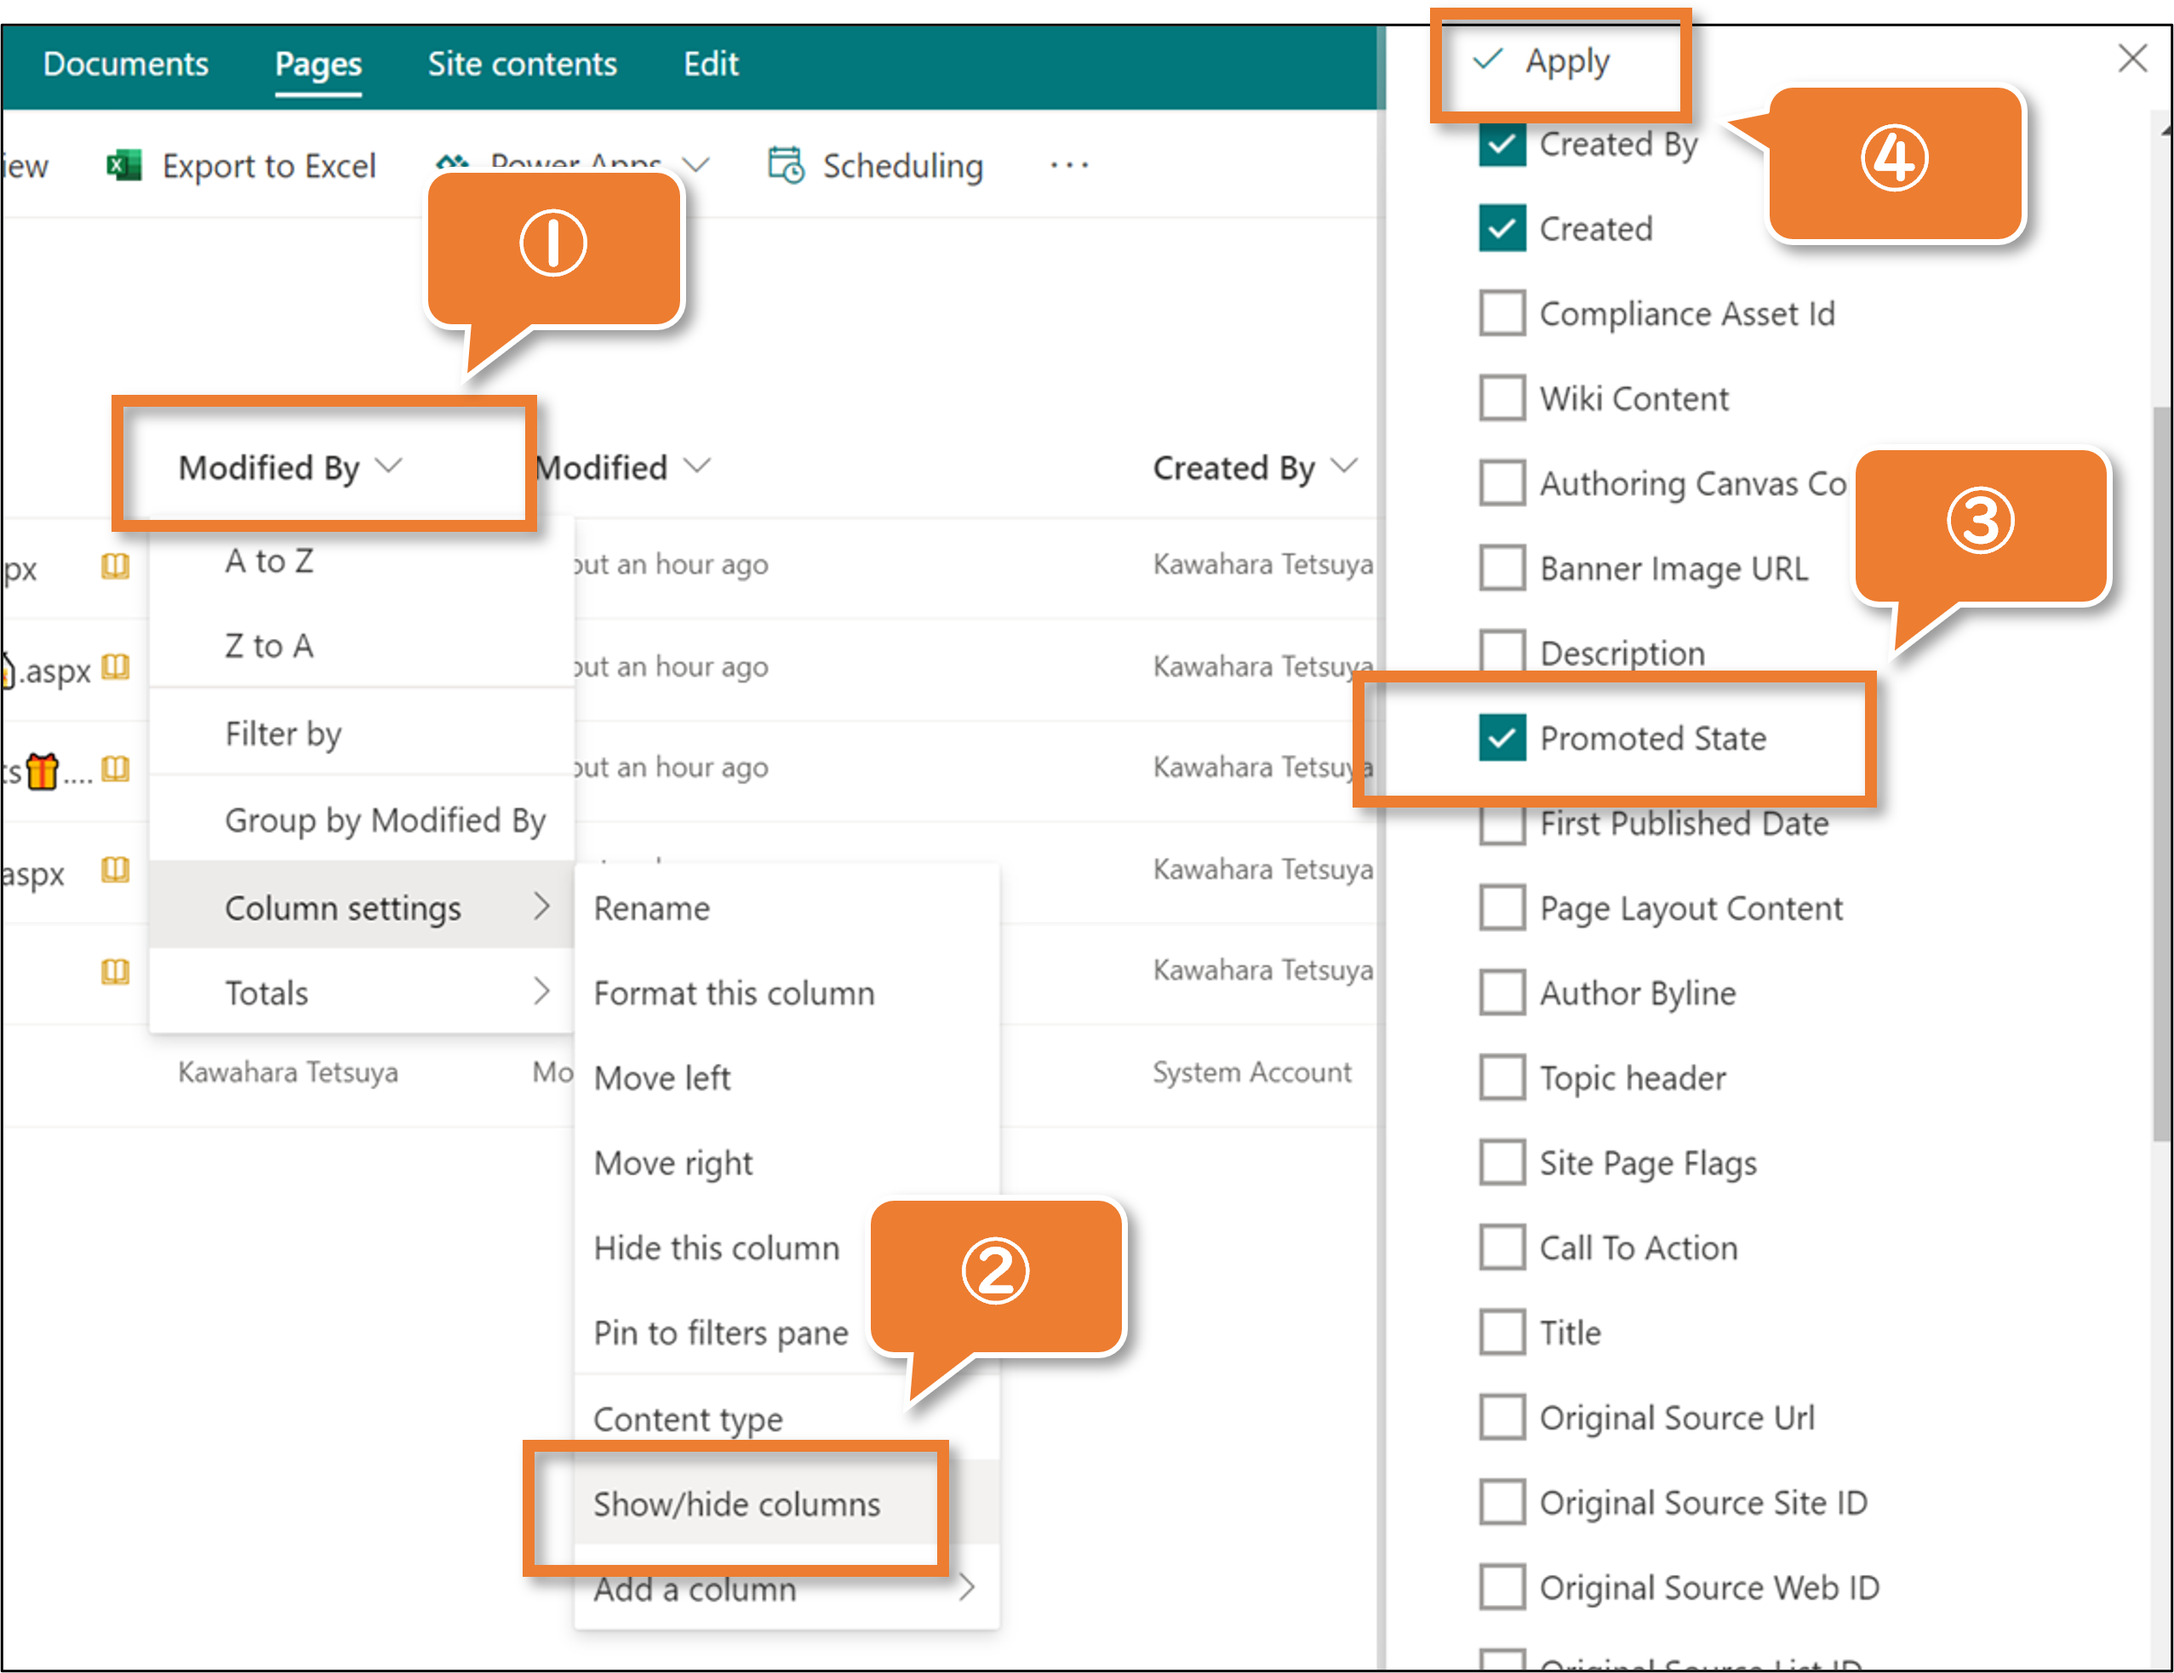
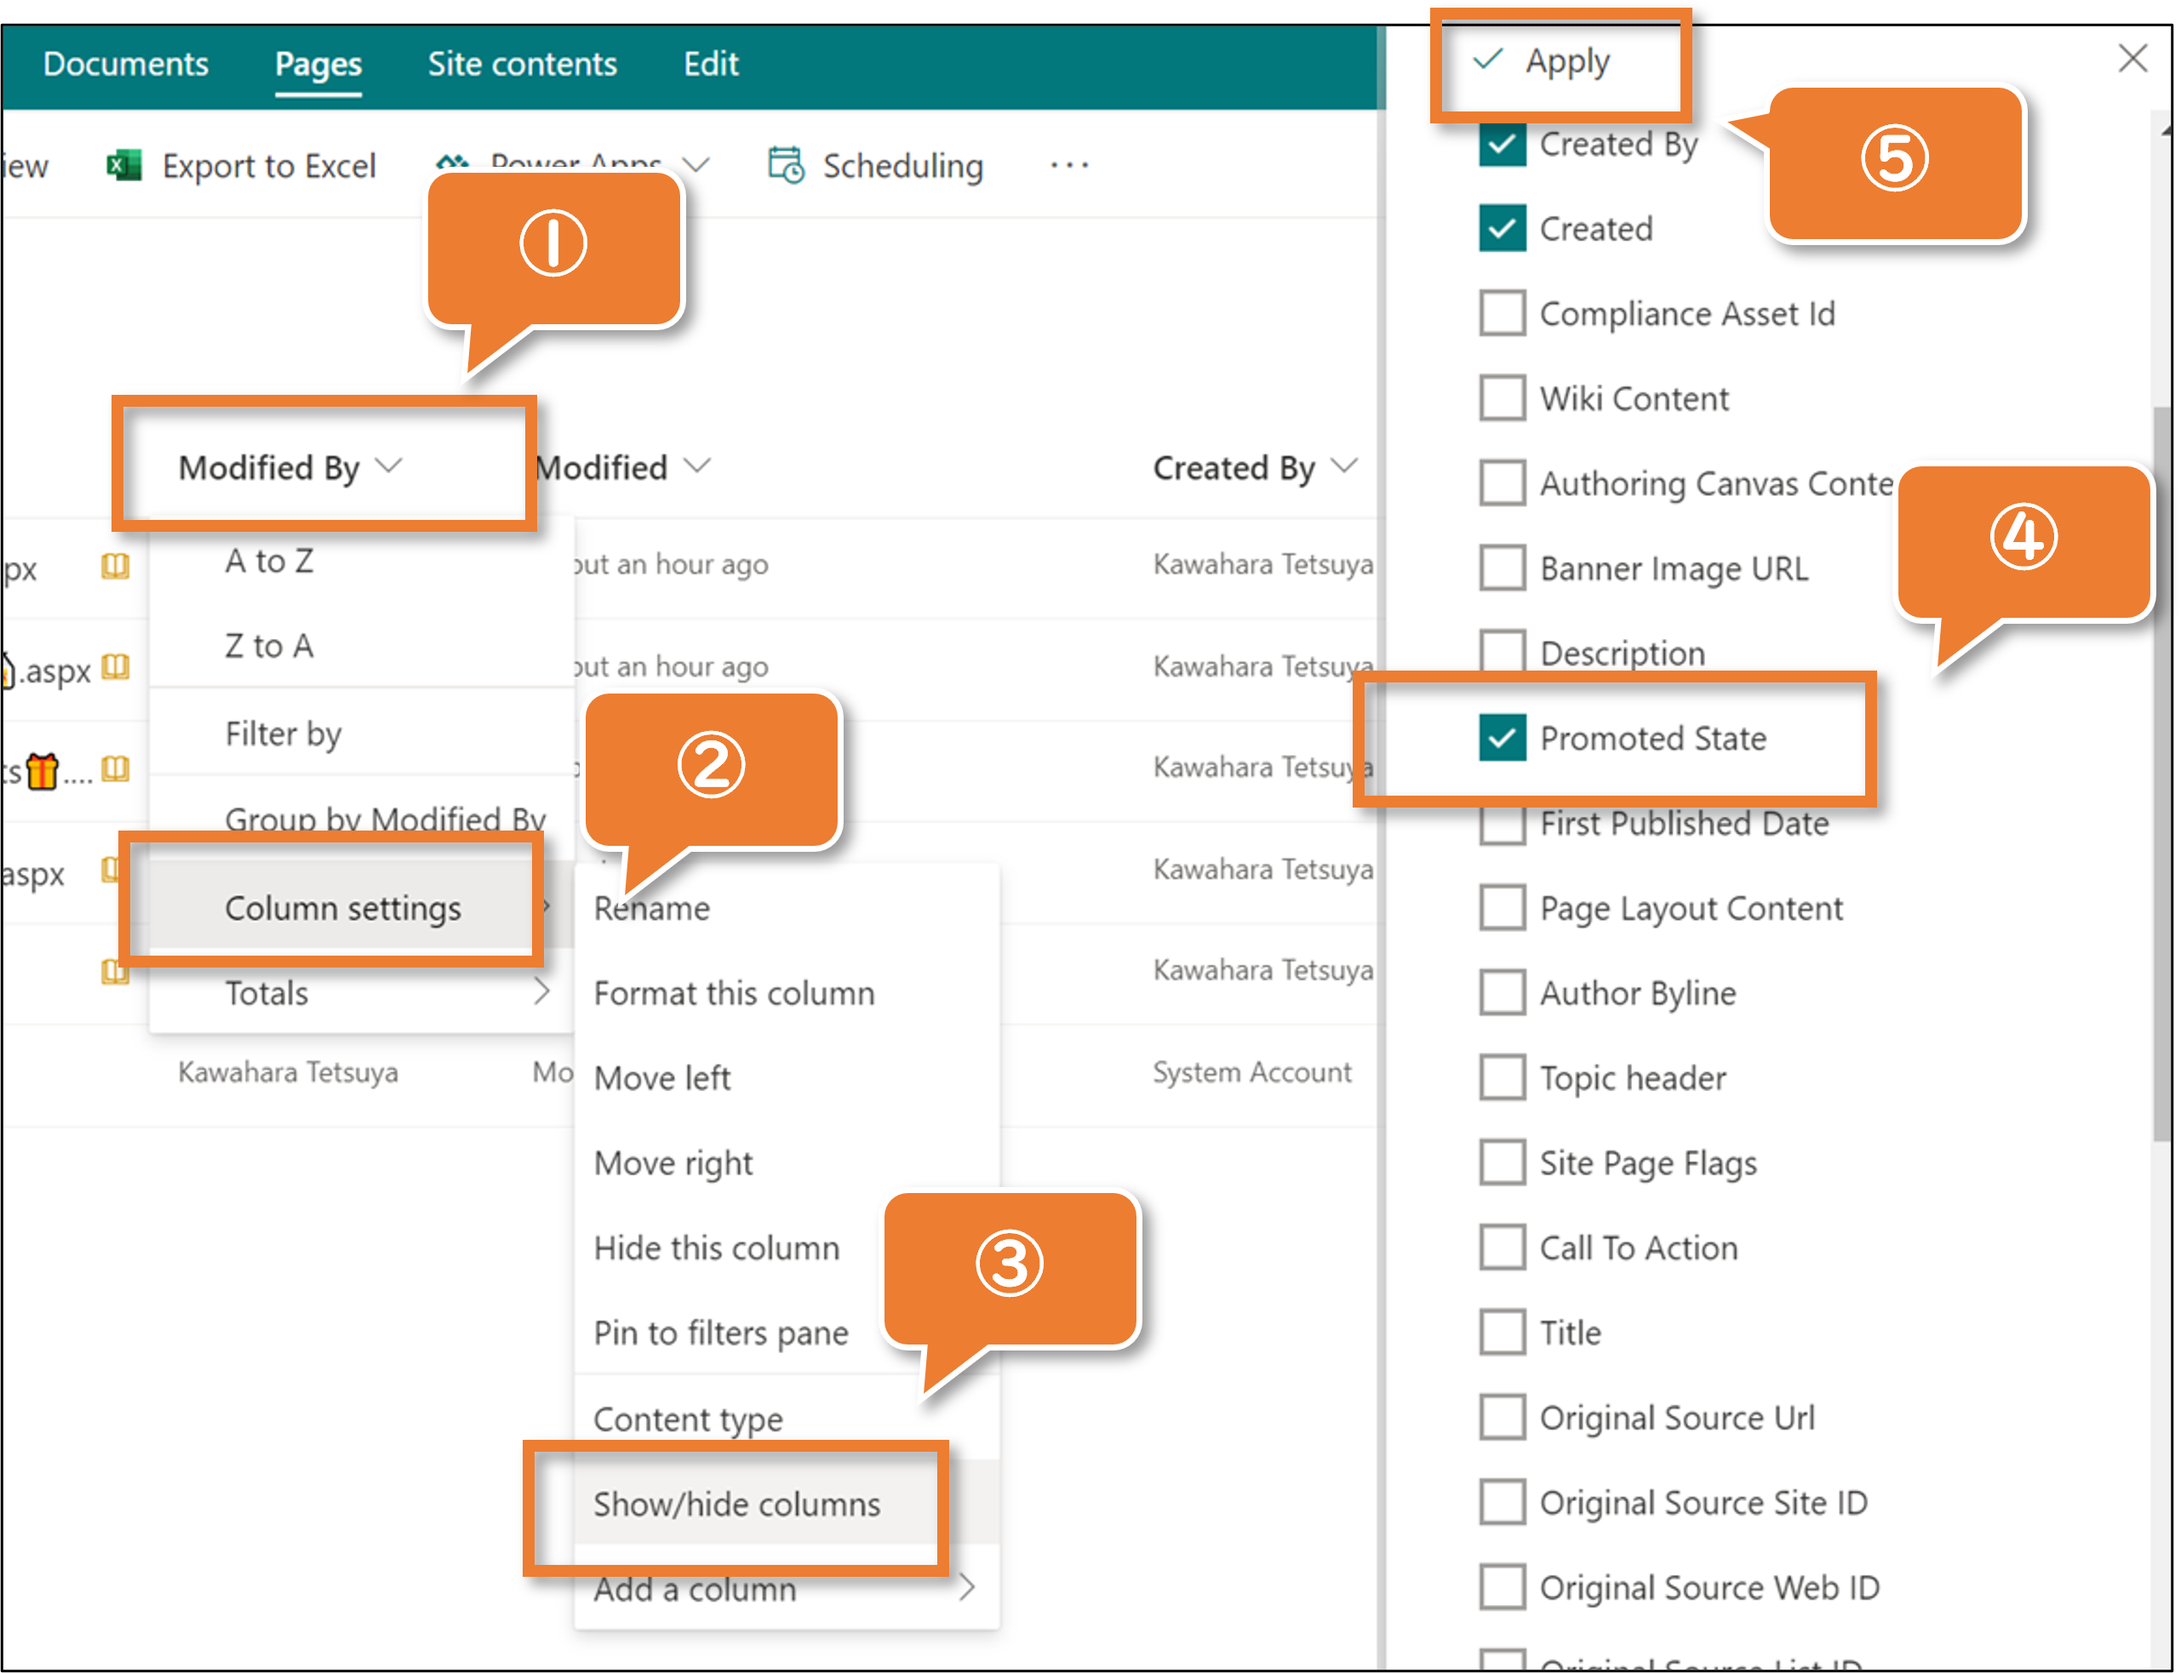
Updated README.md

diff --git a/column-samples/promotedstate-demote-news/README.md b/column-samples/promotedstate-demote-news/README.md
@@ -1,29 +1,34 @@
 # Demoting the news
 
 ## Summary
-In the Site Pages library, there is a Promoted State column. Depending on the value stored in this column, you can identify whether it is a page or a news. The correspondence between the value and page type is as follows.
+In the Site Pages library, there is a Promoted State column. Depending on the value stored in this column, you can identify whether it is a site page or a news page. The correspondence between the value and page type is as follows.
 
 Promoted State |Page Type
----------------|-----------------------
-0              |Page
-1              |News not yet published
-2              |News
+---------------|---------------------------
+0              |Site page
+1              |News page not yet published
+2              |News page
 
-Once a page is created as news, it cannot be demoted to a page under normal circumstances.
+Once a page is created as news page, it cannot be demoted to a site page under normal circumstances.
 
-This sample demonstrates how to use the setValue action to update the value of the Promoted State column to 0 and demote the news to a page.
+This sample demonstrates how to use the setValue action to update the value of the Promoted State column to 0 and demote the news page to a site page.
 
 ![screenshot of the sample](./assets/screen_capture.gif)
+
+After demoting it, please republish it. Otherwise, view-only users will not reflect the change and the page will remain displayed as a news page.
+
+![screenshot of how to republish](./assets/republish.png)
 
 ## Prerequisites
 The Promoted State column needs to be displayed in the view. The following is how to display it.
 
 1. Click any column.
-2. Click **Show/hide Columns**
-3. Check **Promoted State**
-4. Click **Apply**
+2. Hover **Column Settings**
+3. Click **Show/hide Columns**
+4. Check **Promoted State**
+5. Click **Apply**
 
-![Screenshot to show the promoted state](./assets/display_promotedstate.png)
+![screenshot to show the promoted state](./assets/display_promotedstate.png)
 
 ## View requirements
 This format can be applied to a Promoted State column.
